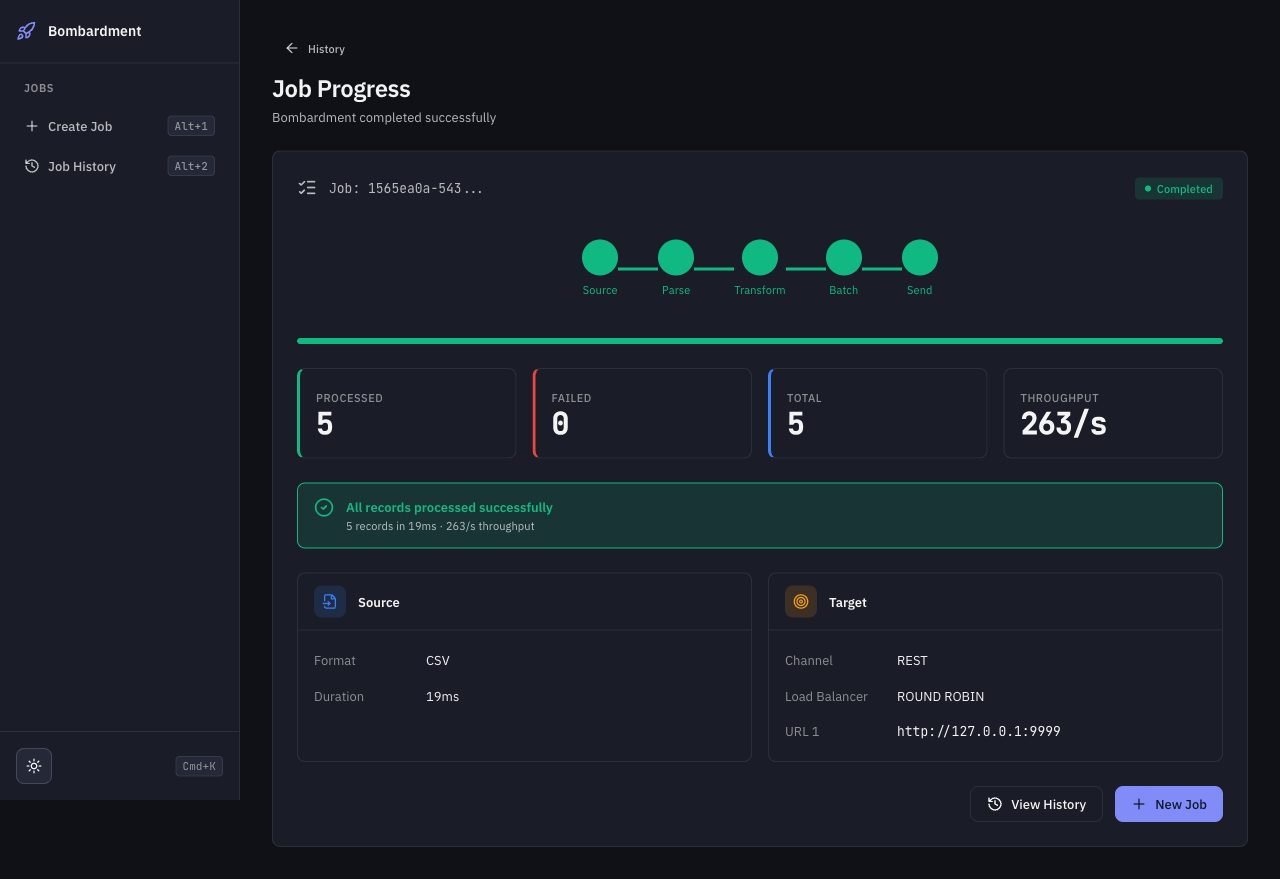
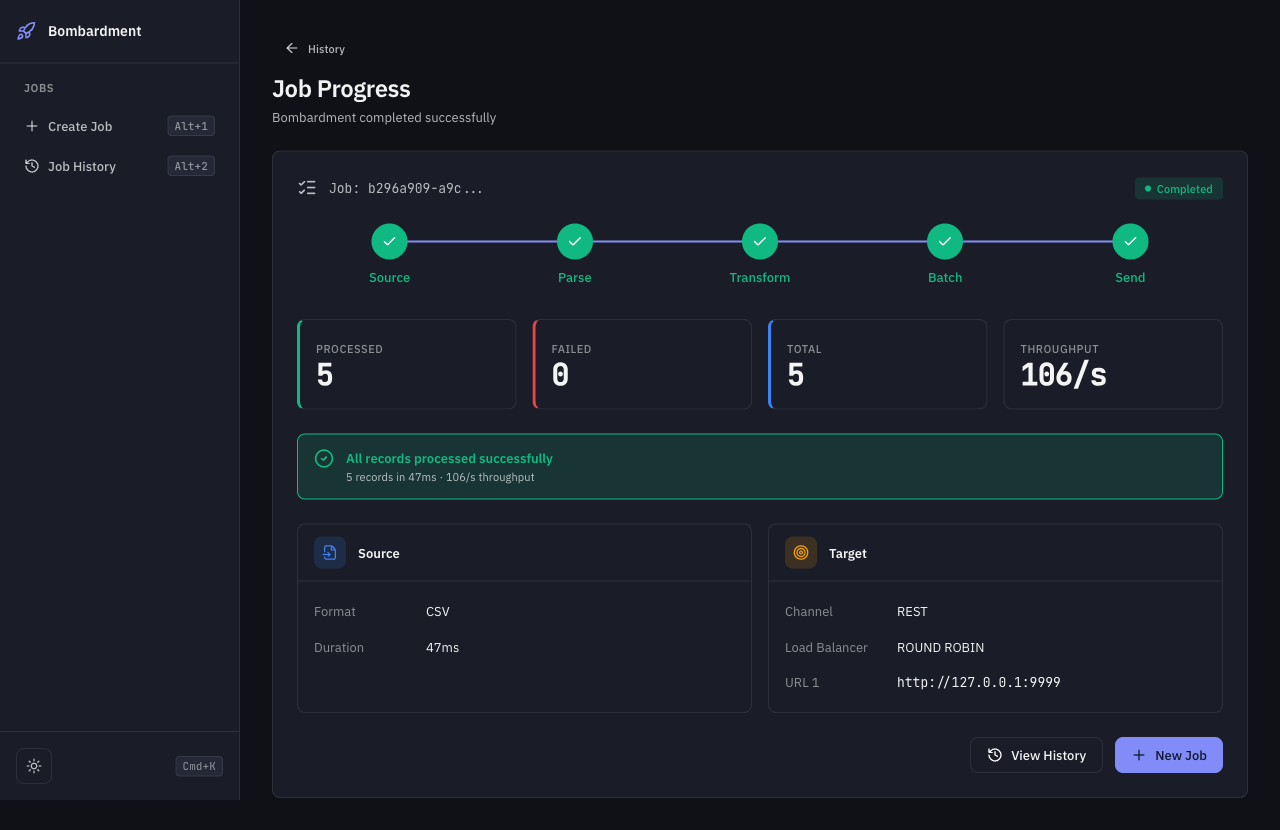
refactor(ui): unify pipeline strip with wizard step indicator design
Replace the separate PipelineStrip expanded mode (raw dots + lines) with
the wizard's step-circle design system. Completed stages show check
icons in green circles, active stages show contextual icons, and
connectors match the wizard's line style. Hide progress bar on
completion since the step indicator already communicates state. Compact
mode for the history table is unchanged.

diff --git a/app/src/app/ui/static/src/components/composites/PipelineStrip.tsx b/app/src/app/ui/static/src/components/composites/PipelineStrip.tsx
@@ -1,4 +1,6 @@
 import { Fragment } from 'preact';
+import { Icon } from '../Icon';
+import type { IconName } from '../Icon';
 import type { JobSnapshot } from '../../types/api';
 
 export interface PipelineStage {
@@ -18,6 +20,14 @@ export const DEFAULT_STAGES: PipelineStage[] = [
   { name: 'Batch', status: 'pending' },
   { name: 'Send', status: 'pending' },
 ];
+
+const STAGE_ICONS: Record<string, IconName> = {
+  Source: 'file-input',
+  Parse: 'list-checks',
+  Transform: 'sliders-horizontal',
+  Batch: 'layers',
+  Send: 'rocket',
+};
 
 function stageIndexFromProgress(pct: number): number {
   if (pct < 20) return 2;
@@ -51,19 +61,11 @@ export function deriveStages(job: JobSnapshot): PipelineStage[] {
   return buildStagesWithHighlight(names, pct, job.status === 'FAILED' ? 'error' : 'active');
 }
 
-export function PipelineStrip({ stages, compact = false }: PipelineStripProps) {
-  const mode = compact ? 'compact' : 'expanded';
-
-  const ariaLabel = stages
-    .map((s) => `${s.name}: ${s.status}`)
-    .join(', ');
+function CompactStrip({ stages }: { stages: PipelineStage[] }) {
+  const ariaLabel = stages.map((s) => `${s.name}: ${s.status}`).join(', ');
 
   return (
-    <div
-      class={`pipeline-strip ${mode}`}
-      role="list"
-      aria-label={`Pipeline: ${ariaLabel}`}
-    >
+    <div class="pipeline-strip compact" role="list" aria-label={`Pipeline: ${ariaLabel}`}>
       {stages.map((stage, i) => (
         <Fragment key={stage.name}>
           {i > 0 && (
@@ -72,18 +74,51 @@ export function PipelineStrip({ stages, compact = false }: PipelineStripProps) {
               aria-hidden="true"
             />
           )}
-          <div
-            class={`pipeline-stage ${stage.status}`}
-            role="listitem"
-            aria-label={`${stage.name}: ${stage.status}`}
-          >
+          <div class={`pipeline-stage ${stage.status}`} role="listitem" aria-label={`${stage.name}: ${stage.status}`}>
             <div class={`pipeline-node ${stage.status}`} />
-            {!compact && (
-              <span class="pipeline-label">{stage.name}</span>
-            )}
           </div>
         </Fragment>
       ))}
     </div>
   );
+}
+
+function ExpandedStrip({ stages }: { stages: PipelineStage[] }) {
+  const ariaLabel = stages.map((s) => `${s.name}: ${s.status}`).join(', ');
+
+  return (
+    <ol class="steps" aria-label={`Pipeline: ${ariaLabel}`}>
+      {stages.map((stage) => {
+        const cls = [
+          'step',
+          stage.status === 'active' && 'active',
+          stage.status === 'complete' && 'completed',
+          stage.status === 'error' && 'active',
+        ].filter(Boolean).join(' ');
+
+        const icon = STAGE_ICONS[stage.name];
+
+        return (
+          <li key={stage.name} class={cls}>
+            <div class="step-trigger">
+              <div class={`step-circle${stage.status === 'error' ? ' step-circle-error' : ''}`}>
+                {stage.status === 'complete' ? (
+                  <Icon name="check" size="sm" />
+                ) : icon ? (
+                  <Icon name={icon} size="sm" />
+                ) : (
+                  <span>{stage.name[0]}</span>
+                )}
+              </div>
+              <span class="step-label">{stage.name}</span>
+            </div>
+          </li>
+        );
+      })}
+    </ol>
+  );
+}
+
+export function PipelineStrip({ stages, compact = false }: PipelineStripProps) {
+  return compact ? <CompactStrip stages={stages} /> : <ExpandedStrip stages={stages} />;
 }

diff --git a/app/src/app/ui/static/src/components/views/JobProgressView.tsx b/app/src/app/ui/static/src/components/views/JobProgressView.tsx
@@ -192,19 +192,17 @@ export function JobProgressView() {
           </div>
         </div>
 
-        {/* Pipeline Strip */}
-        {job && (
-          <div class="mb-6">
-            <PipelineStrip stages={deriveStages(job)} />
-          </div>
-        )}
+        {/* Pipeline Strip (reuses wizard step indicator design) */}
+        {job && <PipelineStrip stages={deriveStages(job)} />}
 
-        {/* Progress Bar */}
-        <ProgressBar
-          value={pct}
-          status={progressStatus(status)}
-          label={`${pct.toFixed(1)}%`}
-        />
+        {/* Progress Bar (visible only while running) */}
+        {!done && (
+          <ProgressBar
+            value={pct}
+            status={progressStatus(status)}
+            label={`${pct.toFixed(1)}%`}
+          />
+        )}
 
         {/* Stat Cards Grid */}
         <div class="progress-stats">

diff --git a/app/src/app/ui/static/src/css/base.css b/app/src/app/ui/static/src/css/base.css
@@ -1012,6 +1012,11 @@
   .step.completed .step-label {
     color: var(--status-success-text);
   }
+  .step-circle-error {
+    background: var(--status-error) !important;
+    color: white !important;
+    border-color: var(--status-error) !important;
+  }
 
   .step-panels-container {
     @apply relative overflow-hidden;
